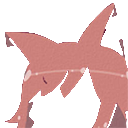
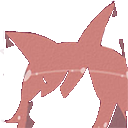
Added hue and luminance, fixed awooo eyebrow

diff --git a/generators/colorize.js b/generators/colorize.js
@@ -77,9 +77,21 @@ async function _blend(stack) {
                     default:
                     case 'colorize':
                         let hsl = rgbToHsl(imageData.data[i + 0], imageData.data[i + 1], imageData.data[i + 2]);
-                        if (element.darken)
-                            hsl[2] = hsl[2]*2;
                         let rgb = hslToRgb(colorHSL[0], colorHSL[1], hsl[2]); // C(H) C(L) C(S) = A(H) A(L) B(S)
+                        imageData.data[i + 0] = rgb[0];
+                        imageData.data[i + 1] = rgb[1];
+                        imageData.data[i + 2] = rgb[2];
+                        break;
+                    case 'hue':
+                        let hsl = rgbToHsl(imageData.data[i + 0], imageData.data[i + 1], imageData.data[i + 2]);
+                        let rgb = hslToRgb(colorHSL[0], hsl[1], hsl[2]); // C(H) C(L) C(S) = A(H) B(L) B(S)
+                        imageData.data[i + 0] = rgb[0];
+                        imageData.data[i + 1] = rgb[1];
+                        imageData.data[i + 2] = rgb[2];
+                        break;
+                    case 'luminance':
+                        let hsl = rgbToHsl(imageData.data[i + 0], imageData.data[i + 1], imageData.data[i + 2]);
+                        let rgb = hslToRgb(hsl[0], hsl[1], colorHSL[2]); // C(H) C(L) C(S) = B(H) B(L) A(S)
                         imageData.data[i + 0] = rgb[0];
                         imageData.data[i + 1] = rgb[1];
                         imageData.data[i + 2] = rgb[2];
